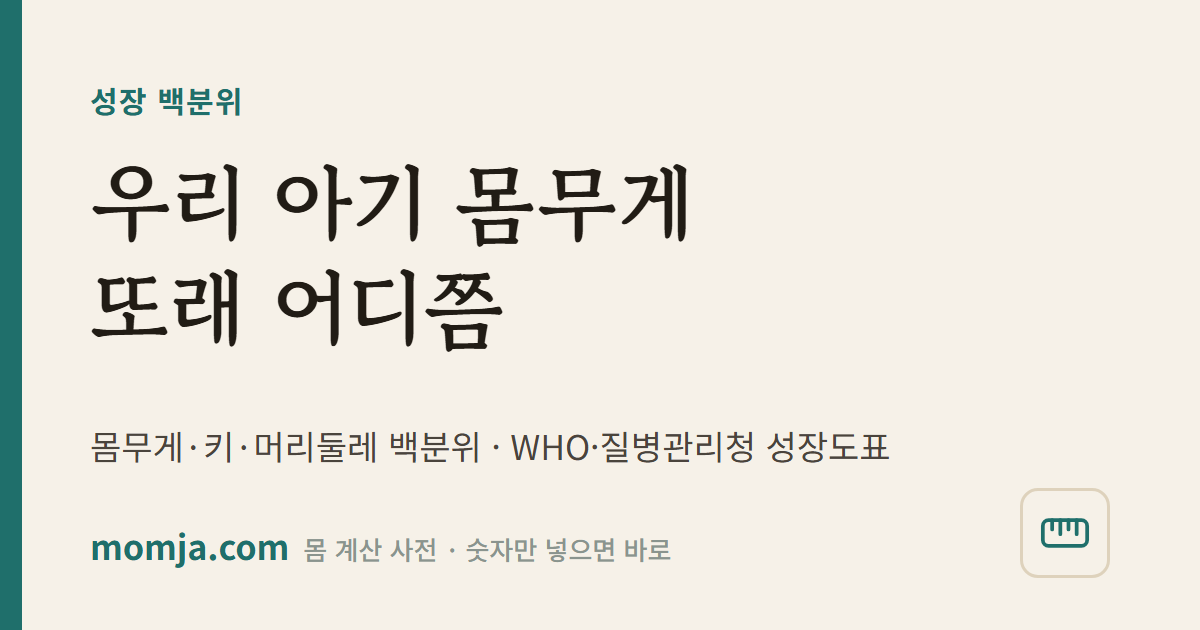
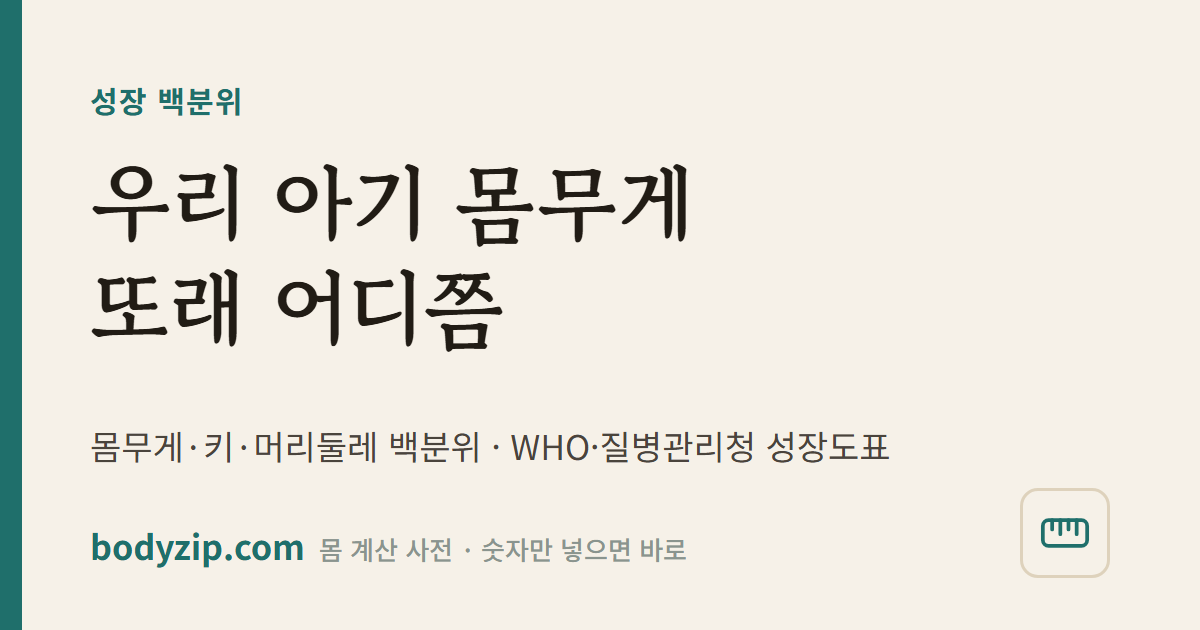
이름 변경 — 몸자 → 바디집 (bodyzip.com), 저장소 momja → bodyzip, 카드·OG 이미지·봇 문구·소개 문구 전면 반영

Changed region(s): [[0.0617, 0.8444, 0.5858, 0.9048]]

diff --git a/src/js/baby-card.js b/src/js/baby-card.js
@@ -1,6 +1,6 @@
-/* 몸자 — 아기 100일·돌 카드 (캔버스로 그려서 저장·공유). /baby/card/ 전용 */
+/* 바디집 — 아기 100일·돌 카드 (캔버스로 그려서 저장·공유). /baby/card/ 전용 */
 (function () {
-  var M = window.Momja, box = document.querySelector('[data-live="babycard"]');
+  var M = window.Bodyzip, box = document.querySelector('[data-live="babycard"]');
   if (!M || !box) return;
   var canvas = document.getElementById('card-canvas'), img = document.getElementById('card-img'), hint = box.querySelector('[data-out="hint"]');
   var THEMES = {
@@ -53,7 +53,7 @@
     if (ratio > 0) { c.fillStyle = T.accent; rr(c, px, py, Math.max(16, pw * ratio), 16, 8); c.fill(); }
     c.font = '400 30px "Noto Sans KR", sans-serif'; c.fillStyle = T.muted;
     c.textAlign = 'left'; c.fillText('태어난 날', px, py + 52); c.textAlign = 'right'; c.fillText('첫돌', px + pw, py + 52); c.textAlign = 'center';
-    c.font = '400 28px "Noto Sans KR", sans-serif'; c.fillStyle = T.muted; c.fillText('momja.com', W / 2, H - 96);
+    c.font = '400 28px "Noto Sans KR", sans-serif'; c.fillStyle = T.muted; c.fillText('bodyzip.com', W / 2, H - 96);
     img.src = canvas.toDataURL('image/png'); img.alt = shareText(s);
   }
   var timer = null;
@@ -73,6 +73,6 @@
   if (save) save.addEventListener('click', function () { blob(function (b, s) { var a = document.createElement('a'); a.href = URL.createObjectURL(b); a.download = '아기 ' + (s.hit || 'D+' + s.days) + ' 카드.png'; document.body.appendChild(a); a.click(); setTimeout(function () { URL.revokeObjectURL(a.href); a.remove(); }, 1500); }); });
   if (share) {
     if (!(navigator.share && navigator.canShare)) share.hidden = true;
-    else share.addEventListener('click', function () { blob(function (b, s) { var f = new File([b], 'baby.png', { type: 'image/png' }); if (navigator.canShare({ files: [f] })) navigator.share({ files: [f], title: '아기 카드', text: shareText(s) + ' — momja.com' }).catch(function () {}); else if (hint) hint.textContent = '이 브라우저는 바로 공유를 지원하지 않아요. 이미지를 저장한 뒤 올려 주세요.'; }); });
+    else share.addEventListener('click', function () { blob(function (b, s) { var f = new File([b], 'baby.png', { type: 'image/png' }); if (navigator.canShare({ files: [f] })) navigator.share({ files: [f], title: '아기 카드', text: shareText(s) + ' — bodyzip.com' }).catch(function () {}); else if (hint) hint.textContent = '이 브라우저는 바로 공유를 지원하지 않아요. 이미지를 저장한 뒤 올려 주세요.'; }); });
   }
 })();

diff --git a/src/js/child-card.js b/src/js/child-card.js
@@ -1,6 +1,6 @@
-/* 몸자 — 아이 예상 키 결과 카드 (아이 키 예측 페이지의 계산기 값으로 그려 저장·공유) */
+/* 바디집 — 아이 예상 키 결과 카드 (아이 키 예측 페이지의 계산기 값으로 그려 저장·공유) */
 (function () {
-  var M = window.Momja, box = document.querySelector('[data-live="child"]'), wrap = document.querySelector('[data-card="child"]');
+  var M = window.Bodyzip, box = document.querySelector('[data-live="child"]'), wrap = document.querySelector('[data-card="child"]');
   if (!M || !box || !wrap) return;
   var canvas = wrap.querySelector('canvas'), img = wrap.querySelector('img');
   function val(k) { var el = box.querySelector('[data-k="' + k + '"]'); return el ? parseFloat(el.value) || 0 : 0; }
@@ -23,7 +23,7 @@
       c.font = '400 34px "Noto Sans KR", sans-serif'; c.fillStyle = '#6B6259'; c.fillText(Math.round((p[1] - 8.5) * 10) / 10 + ' ~ ' + Math.round((p[1] + 8.5) * 10) / 10 + 'cm 안에 95%', W / 2, y + 125);
     });
     c.font = '400 32px "Noto Sans KR", sans-serif'; c.fillStyle = '#8A948E'; c.fillText('중간 부모 키 공식 · 유전 70~80% · 잠·영양·운동이 나머지', W / 2, H - 170);
-    c.font = '400 28px "Noto Sans KR", sans-serif'; c.fillText('momja.com/child-height/', W / 2, H - 96);
+    c.font = '400 28px "Noto Sans KR", sans-serif'; c.fillText('bodyzip.com/child-height/', W / 2, H - 96);
     img.src = canvas.toDataURL('image/png'); img.alt = text(s);
   }
   var timer = null;
@@ -36,6 +36,6 @@
   if (save) save.addEventListener('click', function () { blob(function (b, s) { var a = document.createElement('a'); a.href = URL.createObjectURL(b); a.download = '아이 예상 키 ' + s.f + '-' + s.m + '.png'; document.body.appendChild(a); a.click(); setTimeout(function () { URL.revokeObjectURL(a.href); a.remove(); }, 1500); }); });
   if (share) {
     if (!(navigator.share && navigator.canShare)) share.hidden = true;
-    else share.addEventListener('click', function () { blob(function (b, s) { var f = new File([b], 'child-height.png', { type: 'image/png' }); if (navigator.canShare({ files: [f] })) navigator.share({ files: [f], title: '우리 아이 예상 키', text: text(s) + ' — momja.com' }).catch(function () {}); }); });
+    else share.addEventListener('click', function () { blob(function (b, s) { var f = new File([b], 'child-height.png', { type: 'image/png' }); if (navigator.canShare({ files: [f] })) navigator.share({ files: [f], title: '우리 아이 예상 키', text: text(s) + ' — bodyzip.com' }).catch(function () {}); }); });
   }
 })();

diff --git a/src/js/team-card.js b/src/js/team-card.js
@@ -1,6 +1,6 @@
-/* 몸자 — 회식 음주 표 카드: 사람별 술·양·몸무게 → 최고 농도, 0.03% 아래 시각, 완전 분해 시각. /alcohol/team/ 전용 */
+/* 바디집 — 회식 음주 표 카드: 사람별 술·양·몸무게 → 최고 농도, 0.03% 아래 시각, 완전 분해 시각. /alcohol/team/ 전용 */
 (function () {
-  var M = window.Momja, box = document.querySelector('[data-live="team"]');
+  var M = window.Bodyzip, box = document.querySelector('[data-live="team"]');
   if (!M || !box) return;
   var canvas = document.getElementById('card-canvas'), img = document.getElementById('card-img'), tbody = box.querySelector('[data-out="rows"]'), hint = box.querySelector('[data-out="hint"]');
   var DR = {}; M.DRINKS.forEach(function (d) { DR[d.key] = d; });
@@ -41,7 +41,7 @@
     });
     c.textAlign = 'center'; c.font = '400 28px "Noto Sans KR", sans-serif'; c.fillStyle = '#8A948E';
     c.fillText('위드마크 공식 · 흡수 1.5시간 + 시간당 0.015%p 분해 · 참고용, 운전 가능을 보증하지 않음', W / 2, H - 150);
-    c.fillText('momja.com/alcohol/team/', W / 2, H - 96);
+    c.fillText('bodyzip.com/alcohol/team/', W / 2, H - 96);
     img.src = canvas.toDataURL('image/png');
   }
   var timer = null;
@@ -60,6 +60,6 @@
   if (save) save.addEventListener('click', function () { blob(function (b) { var a = document.createElement('a'); a.href = URL.createObjectURL(b); a.download = '회식 음주 표.png'; document.body.appendChild(a); a.click(); setTimeout(function () { URL.revokeObjectURL(a.href); a.remove(); }, 1500); }); });
   if (share) {
     if (!(navigator.share && navigator.canShare)) share.hidden = true;
-    else share.addEventListener('click', function () { blob(function (b) { var f = new File([b], 'team.png', { type: 'image/png' }); if (navigator.canShare({ files: [f] })) navigator.share({ files: [f], title: '회식 뒤 운전은 언제부터', text: '우리 팀 혈중알코올농도 표 — momja.com/alcohol/team/' }).catch(function () {}); }); });
+    else share.addEventListener('click', function () { blob(function (b) { var f = new File([b], 'team.png', { type: 'image/png' }); if (navigator.canShare({ files: [f] })) navigator.share({ files: [f], title: '회식 뒤 운전은 언제부터', text: '우리 팀 혈중알코올농도 표 — bodyzip.com/alcohol/team/' }).catch(function () {}); }); });
   }
 })();

diff --git a/src/js/card.js b/src/js/card.js
@@ -1,9 +1,9 @@
-/* 몸자 — 임신 디데이 카드 (캔버스로 그려서 저장·공유). /pregnancy/card/ 전용 */
+/* 바디집 — 임신 디데이 카드 (캔버스로 그려서 저장·공유). /pregnancy/card/ 전용 */
 (function () {
-  var M = window.Momja, box = document.querySelector('[data-live="card"]');
+  var M = window.Bodyzip, box = document.querySelector('[data-live="card"]');
   if (!M || !box) return;
   var canvas = document.getElementById('card-canvas'), img = document.getElementById('card-img'), hint = box.querySelector('[data-out="hint"]');
-  var WEEKS = window.MOMJA_WEEKS || [];
+  var WEEKS = window.BODYZIP_WEEKS || [];
   var THEMES = {
     hanji: { bg: '#F6F1E8', ink: '#211C15', accent: '#1F6F6B', soft: '#DED2BC', muted: '#6B6259' },
     teal: { bg: '#1F6F6B', ink: '#F6F1E8', accent: '#F0D9A8', soft: 'rgba(246,241,232,.28)', muted: 'rgba(246,241,232,.75)' },
@@ -57,7 +57,7 @@
     c.textAlign = 'left'; c.fillText('0주', px, py + 52); c.textAlign = 'right'; c.fillText('40주', px + pw, py + 52); c.textAlign = 'center';
     var wk = WEEKS[s.weeks - 1];
     if (s.days >= 0 && wk && wk[0] && wk[0] !== '—') { c.font = '400 36px "Noto Sans KR", sans-serif'; c.fillStyle = T.ink; c.fillText('아기는 지금 ' + wk[0] + ' 크기' + (wk[1] ? ' · ' + wk[1] : '') + (wk[2] ? ' · ' + wk[2] : ''), W / 2, py + 130); }
-    c.font = '400 28px "Noto Sans KR", sans-serif'; c.fillStyle = T.muted; c.fillText('momja.com', W / 2, H - 96);
+    c.font = '400 28px "Noto Sans KR", sans-serif'; c.fillStyle = T.muted; c.fillText('bodyzip.com', W / 2, H - 96);
     img.src = canvas.toDataURL('image/png');
     img.alt = shareText(s);
   }
@@ -87,7 +87,7 @@
     else share.addEventListener('click', function () {
       blob(function (b, s) {
         var f = new File([b], 'dday.png', { type: 'image/png' });
-        if (navigator.canShare({ files: [f] })) navigator.share({ files: [f], title: '임신 디데이 카드', text: shareText(s) + ' — momja.com' }).catch(function () {});
+        if (navigator.canShare({ files: [f] })) navigator.share({ files: [f], title: '임신 디데이 카드', text: shareText(s) + ' — bodyzip.com' }).catch(function () {});
         else if (hint) hint.textContent = '이 브라우저는 바로 공유를 지원하지 않아요. 이미지를 저장한 뒤 올려 주세요.';
       });
     });

diff --git a/src/cards/latest.html b/src/cards/latest.html
@@ -16,11 +16,11 @@ html,body{margin:0;background:#ddd}
 .foot{position:absolute;bottom:90px;left:0;right:0;text-align:center;font-size:28px;color:#8A948E}
 </style></head><body><div id="card">
 <div class="frame"></div>
-<div class="top"><b>몸자</b> · 오늘의 숫자 · 2026년 9월 8일 (화)</div>
-<div class="label">소주 1병, 0.03% 아래로 내려오려면</div>
-<div class="big">5.4시간</div>
-<div class="sub">70kg 남성 최고 0.089% · 마지막 잔 뒤 기준 · 55kg 여성은 8.8시간</div>
+<div class="top"><b>바디집</b> · 오늘의 숫자 · 2026년 9월 9일 (수)</div>
+<div class="label">담배 한 개비가 줄이는 수명</div>
+<div class="big">20분</div>
+<div class="sub">UCL 2024 · 하루 한 갑이면 하루 6시간 40분 · 끊은 날부터 계산</div>
 <div class="bar"></div>
-<div class="url"><span>momja.com/alcohol/soju/1/</span></div>
+<div class="url"><span>bodyzip.com/quit-smoking/</span></div>
 <div class="foot">몸 계산 사전 — 숫자만 넣으면 바로 · 참고용</div>
 </div></body></html>

diff --git a/src/js/app.js b/src/js/app.js
@@ -1,8 +1,8 @@
-/* 몸자 — 페이지 스크립트 (정적 사이트)
+/* 바디집 — 페이지 스크립트 (정적 사이트)
  * 1) 스마트 검색: "키 170 몸무게 65", "치킨 칼로리", "출산예정일 3월 5일", "아기 2025-01-31" → 알맞은 페이지
  * 2) 빠른 찾기 폼, 변형 토글, 복사 버튼 */
 (function () {
-  var G = window.MOMJA_GRID || {};
+  var G = window.BODYZIP_GRID || {};
   function nearest(arr, v) { if (!arr || !arr.length) return v; return arr.reduce(function (a, b) { return Math.abs(b - v) < Math.abs(a - v) ? b : a; }); }
   function pad(n) { return (n < 10 ? '0' : '') + n; }
   /* 이름·별칭 가운데 가장 긴 것이 검색어에 들어 있는 항목 — 같은 길이면 앞 항목 */

diff --git a/src/js/live.js b/src/js/live.js
@@ -1,7 +1,7 @@
-/* 몸자 — 그 자리에서 계산하는 화면들 (window.Momja 엔진)
+/* 바디집 — 그 자리에서 계산하는 화면들 (window.Bodyzip 엔진)
  * [data-live="bmr"] 기초대사량 · [data-live="bodyfat"] 체지방 · [data-live="baby"] 아기 개월수 · [data-live="due"] 출산예정일 · [data-live="cycle"] 배란일 · [data-live="bmi"] BMI */
 (function () {
-  var M = window.Momja; if (!M) return;
+  var M = window.Bodyzip; if (!M) return;
   var num = M.num;
   function q(box, k) { return box.querySelector('[data-k="' + k + '"]'); }
   function out(box, k, v) { var el = box.querySelector('[data-out="' + k + '"]'); if (el) el.textContent = v; }

diff --git a/src/css/style.css b/src/css/style.css
@@ -1,4 +1,4 @@
-/* 몸자 — 자(尺) 디자인: 청록 잉크 + 크림 종이 + 산호색 강조, 숫자는 고정폭 활자 (돈표 장부 틀 공유) */
+/* 바디집 — 자(尺) 디자인: 청록 잉크 + 크림 종이 + 산호색 강조, 숫자는 고정폭 활자 (돈표 장부 틀 공유) */
 :root {
   --paper: #FBF8F1; --paper-deep: #F2EDE2; --card: #FFFFFF;
   --line: #E3DCCB; --line-soft: #EFEAE0;

diff --git a/MARKETING.md b/MARKETING.md
@@ -1,4 +1,4 @@
-# 몸자 마케팅 방안 (2026-09 기준)
+# 바디집 마케팅 방안 (2026-09 기준)
 
 목표: 도메인 연결 뒤 3개월 안에 검색 유입을 만들고, 6개월 안에 애드센스 수익이 나는 사이트로 키운다.
 원칙: 돈을 쓰지 않는다. 검색(네이버·구글)이 본 채널, SNS·커뮤니티는 보조 채널. 모든 채널은 "숫자 하나에 답하는 페이지"로 연결한다.
@@ -18,25 +18,25 @@
 
 ## 1. 검색 등록 — 도메인 연결 당일 (1일차)
 
-1. **Google Search Console**: momja.com 속성 추가(DNS 인증) → 사이트맵 `https://momja.com/sitemap.xml` 제출 → URL 검사로 홈·`/bmi/`·`/pregnancy/week/`·`/guide/` 4개 "색인 요청".
+1. **Google Search Console**: bodyzip.com 속성 추가(DNS 인증) → 사이트맵 `https://bodyzip.com/sitemap.xml` 제출 → URL 검사로 홈·`/bmi/`·`/pregnancy/week/`·`/guide/` 4개 "색인 요청".
 2. **네이버 서치어드바이저**: 사이트 등록 → HTML 태그 인증(빌드 스크립트에 메타 태그 자리 있음, 태그 값만 주면 넣어 드림) → 사이트맵·RSS 제출 → "웹페이지 수집 요청"으로 대표 페이지 20개 등록.
 3. **다음(카카오) 검색등록**: register.search.daum.net 에서 사이트 등록(무료, 승인까지 1~2주).
 4. **빙 웹마스터**: GSC 가져오기 버튼 한 번(구글 계정 연동).
-5. seo-dash에 momja.com 속성 추가(서비스 계정 권한 부여) → 첫 주부터 색인 수·노출 추적.
+5. seo-dash에 bodyzip.com 속성 추가(서비스 계정 권한 부여) → 첫 주부터 색인 수·노출 추적.
 
 체크: 2주 뒤 GSC "페이지" 보고서에서 색인 수 500 이상이면 정상. 200 미만이면 내부 링크·사이트맵 분할이 필요하니 알려 달라.
 
 ## 2. 사이트 안에서 할 일 (내가 함)
 
 - **사이트맵 분할**: 8,000장을 구역별 사이트맵 6개 + 인덱스로 나눠 색인 속도를 높인다(도메인 연결 뒤 바로).
-- **자매 사이트 상호 링크**: 돈표·사주첩·생일 사전·꿈해몽·타로 푸터에 몸자 링크 추가(도메인 라이브 뒤). 사주첩 "아기 사주" 결과 → 몸자 아기 개월수, 생일 사전 날짜 페이지 → 몸자 출산예정일·아기 페이지로 문맥 링크.
+- **자매 사이트 상호 링크**: 돈표·사주첩·생일 사전·꿈해몽·타로 푸터에 바디집 링크 추가(도메인 라이브 뒤). 사주첩 "아기 사주" 결과 → 바디집 아기 개월수, 생일 사전 날짜 페이지 → 바디집 출산예정일·아기 페이지로 문맥 링크.
 - **임베드 위젯**(돈표 `/embed/`와 같은 방식): BMI 계산기·출산예정일 계산기를 블로그에 붙여 넣는 iframe 코드 제공 → 자연 백링크.
 - **OG 이미지**: 공유될 때 보이는 카드 이미지(제목·숫자) 자동 생성 → 카톡·인스타 공유 시 클릭률.
 - **서재 확장**: 월 2편(아래 캘린더의 시즌 주제) — 애드센스 심사에 "글이 있는 사이트"로 보이게 하는 최소치.
 
 ## 3. 시즌 캘린더 (검색량이 몰리는 때에 맞춰 콘텐츠·SNS)
 
-| 시기 | 검색 급증 주제 | 몸자 페이지 | 할 일 |
+| 시기 | 검색 급증 주제 | 바디집 페이지 | 할 일 |
 |---|---|---|---|
 | 12월 말~1월 | 새해 다이어트, 목표 체중, 기초대사량 | `/diet/`, `/bmr/`, `/bmi/` | 서재 "새해 다이어트 계산부터", SNS 카드 "5kg 빼려면 11주" |
 | 1월·9월 | 설·추석 음식 칼로리, 명절 뒤 다이어트 | `/food/`(떡국·전·송편·갈비찜), `/steps/` | 명절 1주 전 "명절 음식 칼로리표" 카드 |
@@ -49,15 +49,15 @@
 
 ## 4. SNS·커뮤니티 (돈 안 드는 순서)
 
-1. **인스타그램·쓰레드 @sajucheop 활용**: 사주첩 일일 카드 봇처럼 몸자용 "오늘의 숫자 카드"를 자동 생성(예: "치킨 한 마리 = 걷기 6시간", "임신 20주 아기는 바나나 크기"). 하루 1장, 링크는 프로필·스토리. 따로 계정을 만들지 말고 기존 팔로워에 얹는다.
-2. **네이버 블로그**: 주 1편, 서재 글을 블로그용으로 다시 써서 올리고 몸자 계산기 링크. 네이버는 자사 블로그를 먼저 노출하므로 블로그 → 몸자 유입이 초기엔 검색보다 빠르다. (naver-blog-post 스킬로 초안 자동 생성 가능.)
+1. **인스타그램·쓰레드 @sajucheop 활용**: 사주첩 일일 카드 봇처럼 바디집용 "오늘의 숫자 카드"를 자동 생성(예: "치킨 한 마리 = 걷기 6시간", "임신 20주 아기는 바나나 크기"). 하루 1장, 링크는 프로필·스토리. 따로 계정을 만들지 말고 기존 팔로워에 얹는다.
+2. **네이버 블로그**: 주 1편, 서재 글을 블로그용으로 다시 써서 올리고 바디집 계산기 링크. 네이버는 자사 블로그를 먼저 노출하므로 블로그 → 바디집 유입이 초기엔 검색보다 빠르다. (naver-blog-post 스킬로 초안 자동 생성 가능.)
 3. **맘카페·지식iN**: 광고가 아니라 답변으로 접근. "출산예정일이 언제예요?", "아기 6개월인데 뭐 해야 해요?" 질문에 계산 결과를 적고 "표는 여기" 링크. 하루 2~3개, 링크 비율 낮게(카페 규정 준수).
 4. **카카오톡 공유 최적화**: OG 이미지가 있으면 "엄마 이거 봐" 식 개인 공유가 늘어난다(위 2번).
 5. **유튜브 쇼츠(선택)**: 계산기 화면 녹화 + 자막 15초. 효과는 있지만 손이 많이 가므로 3개월 뒤 검토.
 
 ## 5. 애드센스
 
-- 사주첩 심사가 끝나면 momja.com을 같은 계정 "사이트 추가"로 넣는다. 서재 10편 + 계산 기준·소개·약관·개인정보 페이지가 이미 있어 정책 요건은 충족.
+- 사주첩 심사가 끝나면 bodyzip.com을 같은 계정 "사이트 추가"로 넣는다. 서재 10편 + 계산 기준·소개·약관·개인정보 페이지가 이미 있어 정책 요건은 충족.
 - 심사 통과 뒤 광고 단위: 페이지 중간 `adslot` 자리(이미 마크업 있음) + 앵커 광고(모바일 하단). 계산기 폼 바로 아래는 오클릭 정책 위반 가능성이 있어 피한다.
 - 건강 카테고리는 CPC가 금융보다 낮다. 대신 페이지 수·체류 시간이 길어 RPM은 돈표의 60~70% 예상. 임신·육아 페이지는 광고주 경쟁이 높아 상대적으로 좋다.
 
@@ -69,11 +69,11 @@
 | 3개월 | 4,000+ | 300~800 | 유입 상위 20개 검색어 보고 그 구역 페이지 보강 |
 | 6개월 | 7,000+ | 1,500~3,000 | 애드센스 광고 단위 최적화, 유입 없는 구역 정리 |
 
-측정은 seo-dash(서치콘솔·GA4)로 매주 한 번 본다. 검색어 보고서에서 "몸자에 없는 질문"이 보이면 그게 다음 페이지 목록이다.
+측정은 seo-dash(서치콘솔·GA4)로 매주 한 번 본다. 검색어 보고서에서 "바디집에 없는 질문"이 보이면 그게 다음 페이지 목록이다.
 
 ## 7. 바로 다음 한 주
 
-1. (사용자) momja.com 구매 → DNS A 레코드 4개 + www CNAME(값은 도메인 알려 주시면 정리해 드림) → GA4 속성 생성 → 측정 ID 전달.
+1. (사용자) bodyzip.com 구매 → DNS A 레코드 4개 + www CNAME(값은 도메인 알려 주시면 정리해 드림) → GA4 속성 생성 → 측정 ID 전달.
 2. (나) `DOMAIN_READY=true`, CNAME, GA_ID 반영 → 배포 → 사이트맵 분할 → 자매 사이트 푸터 링크.
 3. (사용자) 구글·네이버·다음 등록, 네이버 메타 태그 전달, seo-dash 권한 부여.
 4. (나) OG 이미지·임베드 위젯·"오늘의 숫자 카드" 자동 생성기.

diff --git a/drafts/2026-09-09-bmr-diet.md b/drafts/2026-09-09-bmr-diet.md
@@ -1,6 +1,6 @@
 # 기초대사량 계산법과 다이어트 섭취 칼로리 — 왜 적게 먹어도 안 빠질까
 
-_2026-09-08 초안 · 바디집(bodyzip.com) 계산 결과를 그대로 옮긴 글입니다. 네이버 블로그에 붙여 넣기 전에 제목과 첫 문단만 손보세요._
+_2026-09-09 초안 · 바디집(bodyzip.com) 계산 결과를 그대로 옮긴 글입니다. 네이버 블로그에 붙여 넣기 전에 제목과 첫 문단만 손보세요._
 
 "하루 1,000kcal만 먹는데 살이 안 빠져요"라는 말은 흔합니다. 기초대사량(BMR)보다 적게 먹는 기간이 길어지면 몸은 근육을 줄여 대사량을 낮추고, 같은 식사량으로도 체중이 멈춥니다.
 

diff --git a/README.md b/README.md
@@ -1,4 +1,4 @@
-# 몸자 (momja.com)
+# 바디집 (bodyzip.com)
 
 몸에 관한 숫자를 미리 계산해 표로 묶어 둔 사전. 돈표(donpyo.com)와 같은 구조 — 엔진(engine/*.mjs) → 생성기(tools/build.mjs) → dist/ 정적 사이트 → GitHub Pages.
 

diff --git a/drafts/README.md b/drafts/README.md
@@ -2,4 +2,5 @@
 
 매주 월요일 아침 자동으로 한 편씩 생깁니다. 파일을 열어 네이버 블로그에 붙여 넣고 제목·첫 문단만 다듬으세요.
 
+- [2026-09-09-bmr-diet](2026-09-09-bmr-diet.md)
 - [2026-09-08-bmr-diet](2026-09-08-bmr-diet.md)
